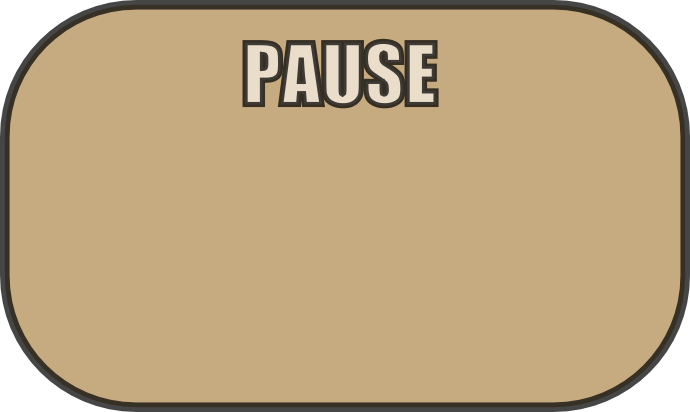
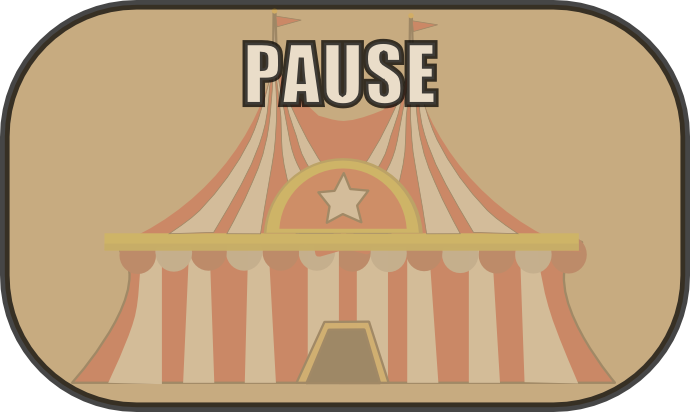
Cambiado imagen de pausa Cambio de iconos de modo niño para que sean más vistosos y significativos

Changed region(s): [[0.0913, 0.2039, 0.913, 0.932], [0.5783, 0.0291, 0.6391, 0.0874], [0.3957, 0.0291, 0.4261, 0.0874]]

diff --git a/core/src/es/eduardoanton/proyectos/juegos/MainScreen.java b/core/src/es/eduardoanton/proyectos/juegos/MainScreen.java
@@ -50,9 +50,9 @@ public class MainScreen implements Screen{
 		marcador.setColor(Color.GRAY);
 	    stage = new Stage(new StretchViewport(SeeSawCircus.screenwidth, SeeSawCircus.screenheight));
 	    if (game.gamew.modechildren){
-	    	botonninos = new ActorGenerico(440f - 400f,310f,"botonninoson.png");
+	    	botonninos = new ActorGenerico(87f,245f,"botonninoson.png");
 	    }else{
-	    	botonninos = new ActorGenerico(440f - 400f,310f,"botonninosoff.png");
+	    	botonninos = new ActorGenerico(87f,245f,"botonninosoff.png");
 	    }
 	    botonninos.addAction(sequence(
 				visible(false),delay(9),visible(true)

diff --git a/core/src/es/eduardoanton/proyectos/juegos/InputProcesadorMain.java b/core/src/es/eduardoanton/proyectos/juegos/InputProcesadorMain.java
@@ -66,7 +66,7 @@ public class InputProcesadorMain implements InputProcessor{
 			return true;
 		}
 		
-		if (touchpos.x > 16 && touchpos.x < 230 && touchpos.y > 280 && touchpos.y < 390 ){
+		if (touchpos.x > 55 && touchpos.x < 267 && touchpos.y > 227 && touchpos.y < 421 ){
 			game.gamew.modechildren = !game.gamew.modechildren;
 			MainScreen.clic.play();
 			if ( game.gamew.modechildren){
